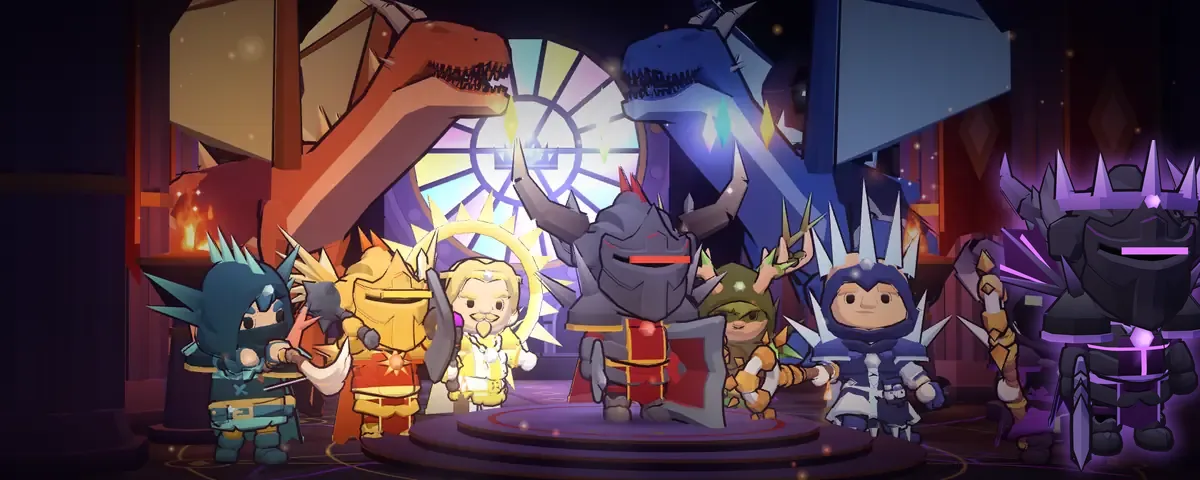
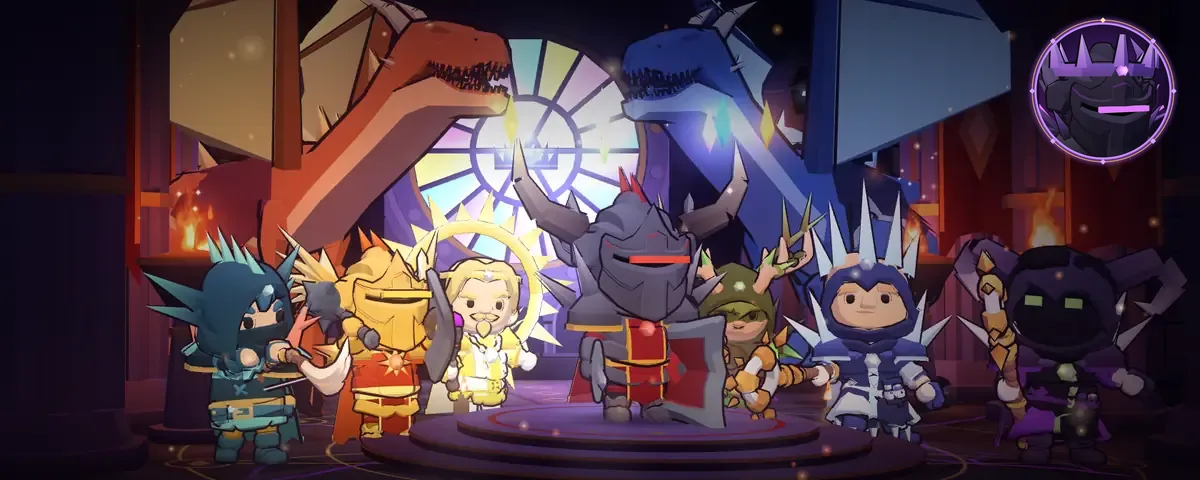
GlitchBound: the Gloamknight gets his own sigil medallion, clear of the heroes
Instead of standing in front of the key art, he has a medallion (his portrait in a glowing dusk-violet
ring) in an empty corner of every Sigilfall picture: the home page banner's top corner over the wall,
the card pictures' top corner, and the share picture's text column. No hero is covered. On the home page
it is the link to his pack once the shop is open (to the game before that).

Claude-Session: https://claude.ai/code/session_01C2NvrbzqJfCXcEkHp7Sn9P

Changed region(s): [[0.8017, 0.0312, 1.0, 1.0]]

diff --git a/glitchbound/src/components/SigilfallHero.css b/glitchbound/src/components/SigilfallHero.css
@@ -342,57 +342,50 @@
   }
 }
 
-/* The Gloamknight, in front of the picture at its right: a link to his pack in the shop, glowing dusk violet */
+/* The Gloamknight's medallion, in the picture's top corner over the wall (clear of the heroes): a link to his pack */
 .sfh-gk {
   position: absolute;
   z-index: 1;
-  right: clamp(6px, 2.4vw, 56px);
-  bottom: 0;
-  display: block;
-  height: min(74%, 420px);
-  aspect-ratio: 415 / 560;
+  top: clamp(12px, 3vw, 40px);
+  right: clamp(12px, 3vw, 64px);
+  display: grid;
+  justify-items: center;
+  gap: 6px;
+  width: clamp(110px, 10vw, 150px);
   text-decoration: none;
   color: #fff;
 }
 .sfh-gk img {
   display: block;
   width: 100%;
-  height: 100%;
-  object-fit: contain;
-  filter: drop-shadow(0 0 14px rgb(178 102 255 / 0.75)) drop-shadow(0 10px 18px rgb(0 0 0 / 0.7));
-  transform-origin: 50% 100%;
-  animation: sfh-gk-breathe 3.6s ease-in-out infinite;
-  transition: filter 0.2s;
+  height: auto;
+  animation: sfh-gk-glow 3.6s ease-in-out infinite;
+  transition: transform 0.2s;
 }
 .sfh-gk:hover img,
 .sfh-gk:focus-visible img {
-  filter: drop-shadow(0 0 24px rgb(198 132 255 / 0.95)) drop-shadow(0 10px 18px rgb(0 0 0 / 0.7));
+  transform: scale(1.05) rotate(-2deg);
 }
-@keyframes sfh-gk-breathe {
+@keyframes sfh-gk-glow {
   50% {
-    transform: translateY(-4px) scale(1.012);
+    filter: drop-shadow(0 0 14px rgb(190 120 255 / 0.8));
   }
 }
 .sfh-gk-tag {
-  position: absolute;
-  top: 2%;
-  left: 50%;
-  translate: -50% 0;
   display: grid;
   justify-items: center;
   gap: 1px;
-  padding: 6px 12px 7px;
+  padding: 5px 11px 6px;
   border: 1.5px solid #c58cff;
   border-radius: 12px;
-  background: rgb(26 10 48 / 0.88);
-  box-shadow: 0 0 16px rgb(168 92 255 / 0.55);
-  font: 700 12.5px/1.2 var(--mono);
+  background: rgb(26 10 48 / 0.9);
+  box-shadow: 0 0 14px rgb(168 92 255 / 0.5);
+  font: 700 12px/1.2 var(--mono);
   white-space: nowrap;
-  transition: transform 0.15s;
 }
 .sfh-gk-tag b {
   color: #e2b8ff;
-  font-size: 10.5px;
+  font-size: 10px;
   letter-spacing: 0.12em;
   text-transform: uppercase;
 }
@@ -401,24 +394,22 @@
   align-items: center;
   gap: 5px;
 }
-.sfh-gk:hover .sfh-gk-tag,
-.sfh-gk:focus-visible .sfh-gk-tag {
-  transform: translateY(-2px);
-}
 @media (max-width: 760px), (max-aspect-ratio: 13/10) {
   .sfh-gk {
     top: 10px;
-    bottom: auto;
-    height: 170px;
+    right: 10px;
+    width: auto;
+    justify-items: end;
+  }
+  .sfh-gk img {
+    width: 76px;
   }
   .sfh-gk-tag {
-    top: auto;
-    bottom: -6px;
-    left: auto;
-    right: 4px;
-    translate: none;
-    padding: 4px 9px 5px;
-    font-size: 11px;
+    padding: 3px 7px 4px;
+    font-size: 10px;
+  }
+  .sfh-gk-tag b {
+    font-size: 8.5px;
   }
 }
 @media (prefers-reduced-motion: reduce) {

diff --git a/glitchbound/src/components/SigilfallHero.tsx b/glitchbound/src/components/SigilfallHero.tsx
@@ -31,15 +31,15 @@ export function useSigilfall() {
 /**
  * The first thing on the site: a banner of Sigilfall's key art (the Wardens' Sanctum at night, all seven heroes in their
  * sigil armor and two Sigil Drakes, composed from the game's own 3D), its name in gold and one button. A cue on its
- * bottom edge says there's more below. The Gloamknight, the class sold in the shop, stands in front of it: with the shop
- * open he and his tag are a link to the Gloamknight Pack, before that to the game.
+ * bottom edge says there's more below. The Gloamknight, the class sold in the shop, has his own sigil medallion in its top
+ * corner, clear of the heroes: with the shop open it and its tag are a link to the Gloamknight Pack, before that to the game.
  */
 export function SigilfallHero() {
   const t = useT();
   const game = useSigilfall();
   const words = useLiveCatalog().raw.banner;
   const banner = useRef<HTMLElement>(null);
-  // the Gloamknight stands in front of the picture; once the shop is open (or for an admin) he leads to his pack
+  // the Gloamknight's medallion; once the shop is open (or for an admin) it leads to his pack
   const money = useMoney();
   const { me } = useAccount();
   const pack = money.shop || !!me?.isAdmin;
@@ -64,7 +64,7 @@ export function SigilfallHero() {
         ))}
       </div>
       <Link href={pack ? '/shop' : `${game.section!.path}?play=1`} className="sfh-gk" aria-label={pack ? `${t('New class')}: ${t('Gloamknight Pack')}` : 'Sigilfall'}>
-        <img src="/games/sigilfall/gloamknight.webp" alt="" width={415} height={560} decoding="async" />
+        <img src="/games/sigilfall/gloamknight-medal.webp" alt="" width={300} height={300} decoding="async" />
         {pack && (
           <span className="sfh-gk-tag">
             <b>{t('New class')}</b>
